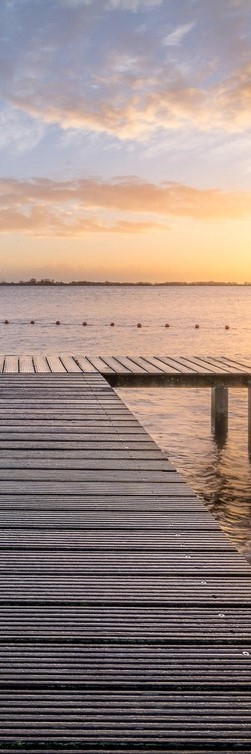
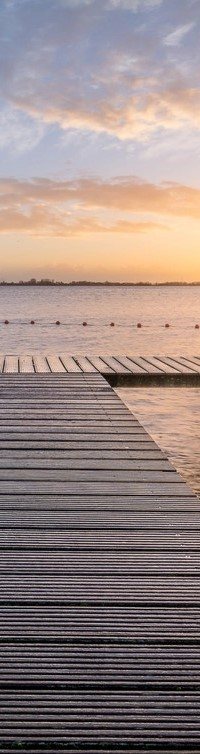
afbeelding

diff --git a/style.css b/style.css
@@ -192,7 +192,7 @@ footer {
     position: fixed;
     top: 0;
     bottom: 0;
-    width: 250px; /* Pas dit aan op basis van je ontwerp */
+    width: 200px; /* Pas dit aan op basis van je ontwerp */
     opacity: 0.4; /* Licht transparant */
     z-index: 1;
     pointer-events: none; /* voorkomt dat ze aanklikbaar zijn */
@@ -212,7 +212,7 @@ footer {
     right: 0;
   }
   
-  @media (max-width: 1200px) {
+  @media (max-width: 1100px) {
     .side-image {
       display: none;
     }
